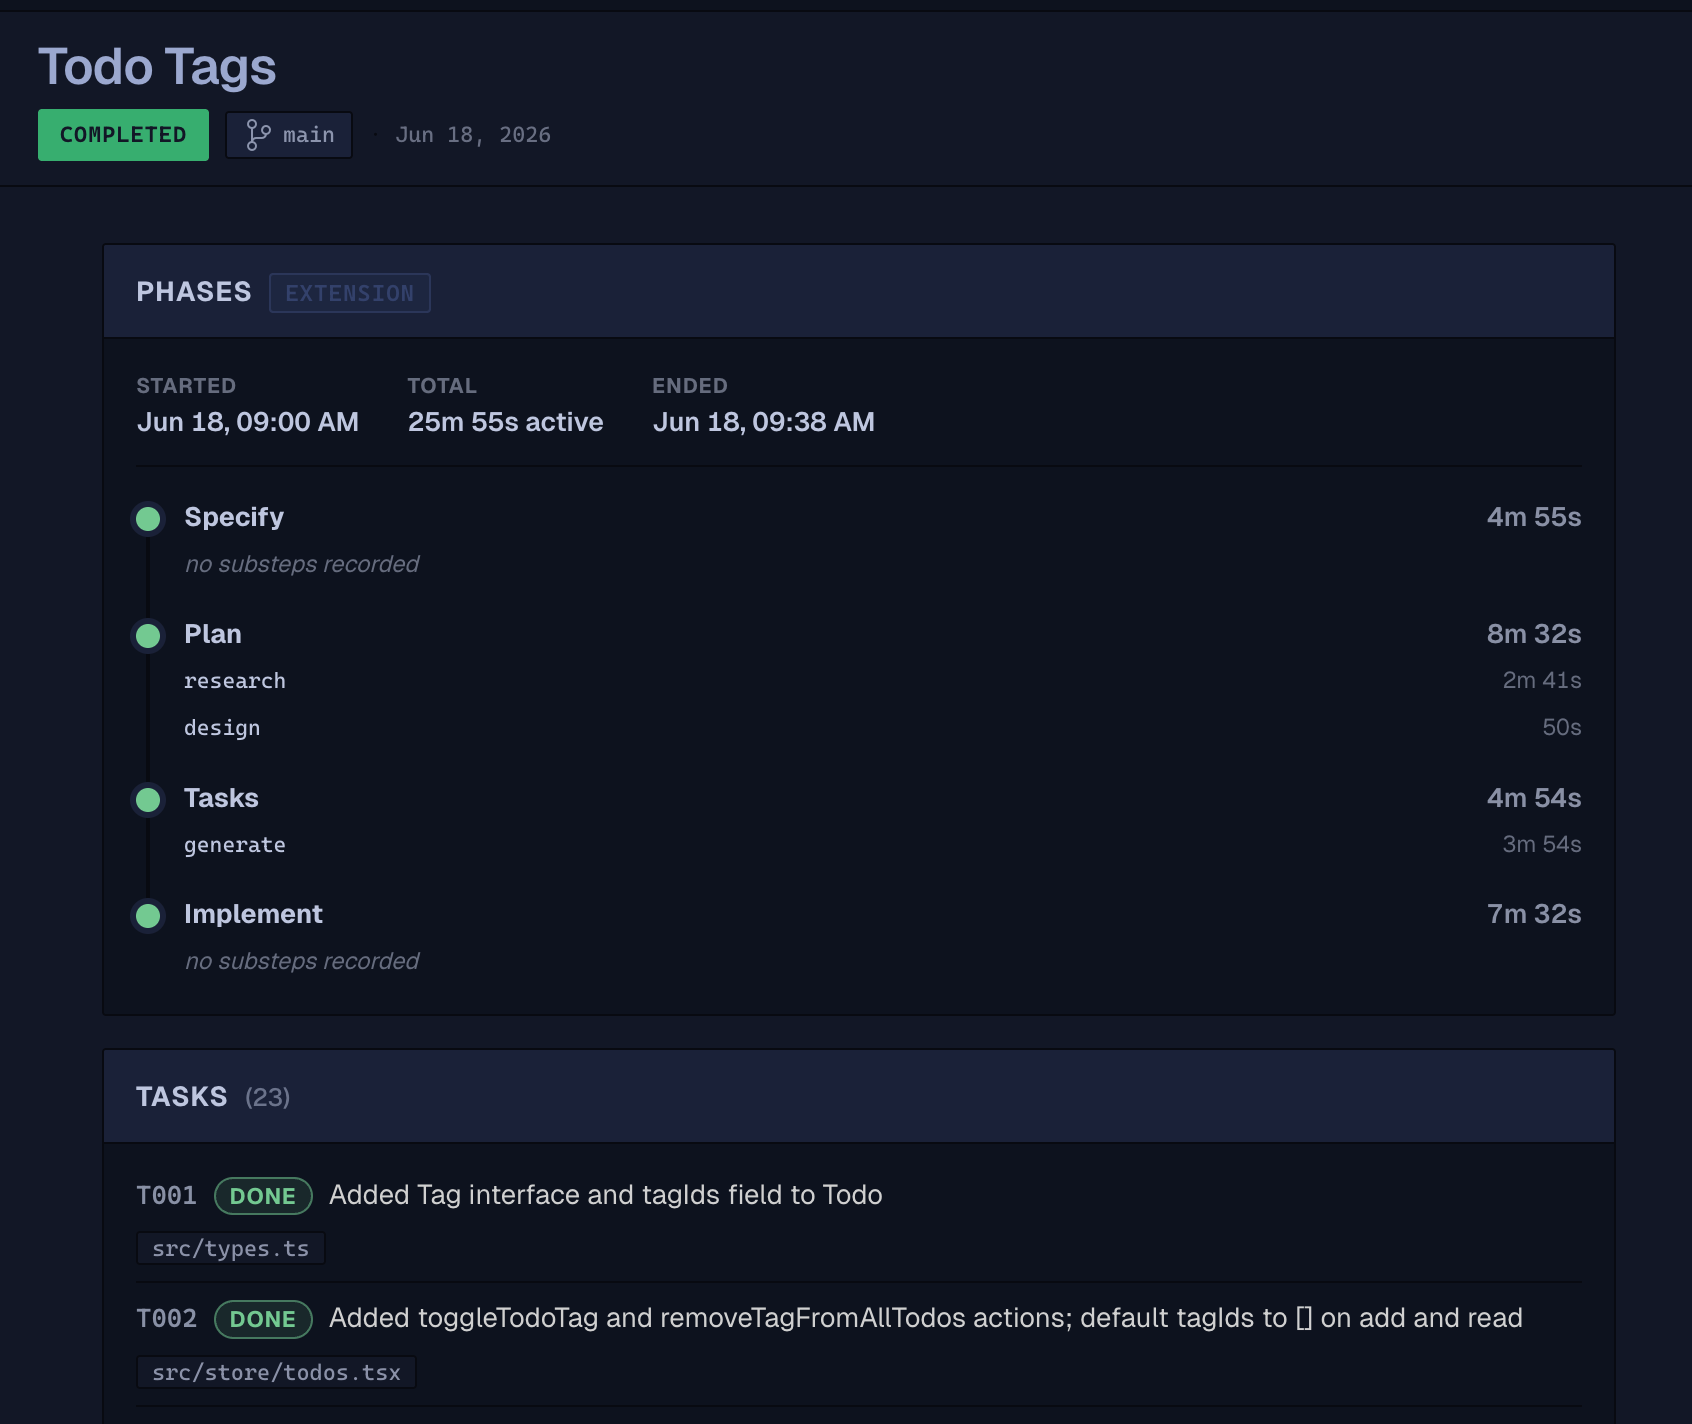
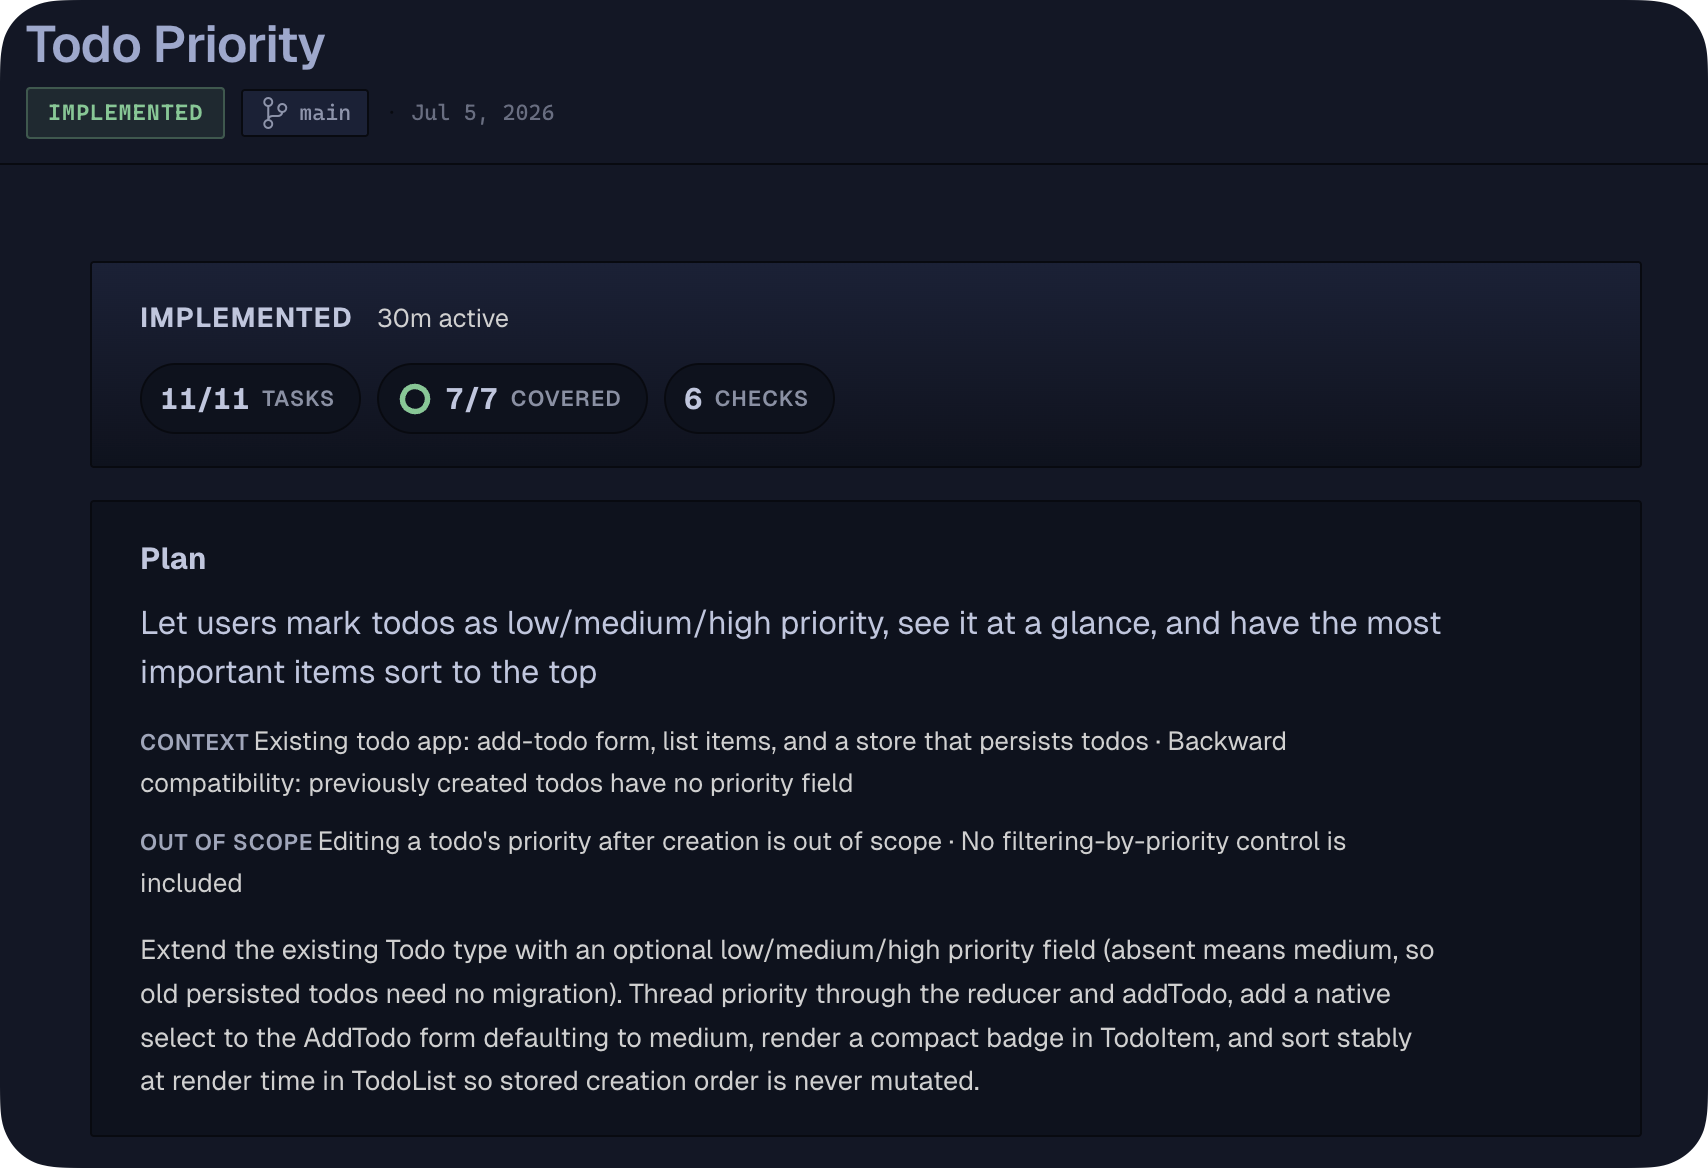
docs: activity panel screenshots — refresh activity.png in place, add decisions/work/proof shots to the changelog

diff --git a/CHANGELOG.md b/CHANGELOG.md
@@ -8,6 +8,10 @@ All notable changes to this project will be documented in this file.
 
 - **Activity panel polish from a design review** (#405): the active tab no longer draws a broken-looking box after a mouse click (keyboard users still get a clear focus ring), each number appears exactly once (one coverage donut in the hero, no counts repeated in section headings), and the Proof/Notes tabs badge only what needs attention — uncovered requirements and open concerns, warning-tinted — instead of summing unrelated things. Checks render as compact pills that pack like tags rather than a grid with holes, section headings read in Title Case so the hierarchy is visible again, coverage rows drop their doubled bullet markers, the tiny metadata labels are more legible on every theme, and the viewer header shows the spec name in Title Case instead of a lowercase slug.
 - **Step timers only show durations that were actually measured** (#392): some timestamps in a spec's history are journaled by the AI after the fact — they put events in the right order but say nothing about how long the work really took. The viewer's derived timing now distinguishes measured spans from journaled ones, so elapsed-time displays can stop presenting bookkeeping as effort. Alongside this, the spec context schema now declares the new reasoning-trail fields the spec-kit extension records (the goal, out-of-scope list, decisions, verifications, and requirement coverage), so the viewer can read them.
+
+  ![The Work tab: phases strip with measured durations and journaled tasks](https://raw.githubusercontent.com/alfredoperez/speckit-companion/main/docs/screenshots/activity-work.png)
+  *What happened, with receipts: the phases strip shows only genuinely measured durations, and every task is journaled as it finished with the files it touched.*
+
 - **A colorful sidebar** (#389): the Steering view now uses full-color icons instead of flat monochrome glyphs — steering docs, the constitution, and section headers each get a recognizable icon, and the provider node shows your AI provider's actual brand logo (Claude, Gemini, GitHub Copilot, Codex, Qwen, OpenCode, Cursor, or Windsurf). The spec list keeps its familiar color-tinted beakers (blue in progress, yellow implemented, green done), and the Active/Completed/Archived group headers are now colorful too. Repeated leaf icons (every script, template, agent, and skill row) and the dimmed file paths on SpecKit Files rows were dropped to cut visual noise. Icons come from the open-source Fluent Emoji and Lobe Icons sets.
 - **Companion commands now open, and the Companion node moved up** (#389): in the Steering view, the entries under Companion → Commands used to do nothing when clicked — each now opens the command's prompt body. The Companion node also moves to the second spot in the Steering view so it's easier to find.
 
@@ -15,7 +19,15 @@ All notable changes to this project will be documented in this file.
 
 - **The living specs a feature touches are now readable inside the viewer** (#394): the Activity panel's Notes tab used to list only the names of the capability specs a feature loaded or folded back into — reading their content meant opening raw files. Each capability now renders inline: its one-line purpose, its requirements as readable rows, and — for completed specs that folded changes back — the change counts (added/modified/removed). Old specs and workspaces where the content can't be found keep the simple name list with a quiet "content unavailable" note. A new committed demo spec (`specs/_03_demo-living`) lets you see the card without configuring living specs.
 - **The Activity panel now shows the reasoning, not just the timeline** (#397): open a spec and the panel leads with a **Goal** card — what the spec is for and what it deliberately isn't — followed by richer **Decisions** (each choice with its why and the rejected alternative; a regression that hid newly-captured decisions entirely is fixed), a **Verified** card (the checks that proved the work, including warnings that were seen and dismissed), and a **Coverage** card answering "is this requirement tested?" per requirement with a covered/total rollup. The Approach card also shows how the pipeline sized the change. Old specs without the new data render exactly as before.
+
+  ![The Decisions tab: each choice with its why and the rejected alternative](https://raw.githubusercontent.com/alfredoperez/speckit-companion/main/docs/screenshots/activity-decisions.png)
+  *The road not taken: every decision with its WHY and the alternative it REJECTED.*
+
 - **The Activity panel became a brief, not a scroll** (#400): it now opens with a hero strip — status, sizing, honestly-measured active time, and stat chips (tasks, coverage with a donut, checks, concerns) that jump to their detail — followed by an always-visible plan block showing the spec's goal, the context it worked from, its out-of-scope fence, and the approach. Everything else moved into four keyboard-navigable tabs (Decisions, Work, Proof, Notes) with count badges; when requirements are uncovered or concerns are open, Proof opens first. Verifications render as green/amber pills, requirement chips are tinted by covered state, decisions are numbered, and the phase timeline gained duration bars for genuinely measured spans. Older specs render gracefully with only what they have.
+
+  ![The Activity panel brief: hero stats and the Plan section](https://raw.githubusercontent.com/alfredoperez/speckit-companion/main/docs/screenshots/activity.png)
+  *The brief: status, honest active time, and stat chips up top; the Plan states the intent, the context the run worked from, and what was out of scope.*
+
 - **The Spec Explorer can now act, not just list** (#393): right-click a capability in the Spec Explorer to run a **drift check** or a **requirement-coverage check** — each is sent to your AI assistant scoped to that capability, the same way every other Companion command dispatches. The view's title bar gains an **Adopt Code Area** action (the brownfield wizard, handy from the empty state) and a **Refresh** button. Capability rows also show their health at a glance: a `3/5 covered` count when a coverage file exists, and a `● drift` marker (with a warning-colored icon) when code has changed since the living spec was last committed. Health is computed quietly by the extension itself and simply stays absent when it can't be determined — the tree never errors or stalls.
 - **Support the project from inside the editor** (#388): if SpecKit Companion saves you time, there's now an easy way to chip in. A "Sponsor" button appears on the Marketplace listing and the extension details view, the Specs sidebar welcome screen has a "Support this project" link, and there's a "Sponsor SpecKit Companion" command in the Command Palette. All of them open the project's GitHub Sponsors page. Nothing changes if you'd rather not — it's entirely optional.
 - **Companion templates in the Steering view** (#389): the Companion node now has a **Templates** group listing the prompt templates the Companion preset ships (the per-step command bodies it layers over stock SpecKit), the same way SpecKit Files lists its templates. Click one to open it. It appears only when the installed Companion extension actually carries templates.
@@ -24,6 +36,10 @@ All notable changes to this project will be documented in this file.
 ### Fixed
 
 - **Stock-workflow specs no longer get stuck, and their Activity panel fills up** (#408): when you dispatch a standard SpecKit command from the GUI without the companion spec-kit extension installed, the instructions the extension sends along used to reference a helper that didn't exist in your workspace — so progress recording silently failed and specs could freeze at "specifying" forever. The helper now ships inside the editor extension itself, so it always exists. And stock runs now record the same reasoning trail the Companion pipeline does — the goal and out-of-scope fences, working context, decisions, checks, and per-requirement coverage — so the Activity panel is a real brief on stock workflows too, not just a bare timeline. Verified end-to-end by a new committed sandbox eval that replays the exact GUI-dispatched instructions against a real model in a companion-free workspace.
+
+  ![The Proof tab: verified checks with their commands and a requirement coverage map](https://raw.githubusercontent.com/alfredoperez/speckit-companion/main/docs/screenshots/activity-proof.png)
+  *Proof, not self-report — captured on a plain stock spec-kit run: six checks with the exact command each ran, and every requirement mapped to the tasks and tests that satisfy it.*
+
 - **The sidebar Resume button no longer clicks into the void without the spec-kit extension** (#407): with the SpecKit Companion Workflow enabled but the companion spec-kit extension not installed, Resume used to stay visible and a click silently sent a command your AI CLI couldn't resolve — nothing happened, no explanation. The button now hides when the extension is missing, and if the command runs anyway you get the standard warning with an **Install spec-kit Extension** action instead of a dead dispatch.
 - **The "Install spec-kit extension" banner no longer hides behind the beta setting** (#369): the prompt that offers to install the companion spec-kit extension used to appear only after you'd turned on the SpecKit Companion Workflow beta — which meant the people most likely to want the extension never saw the nudge to get it. The banner now shows on its own merits: whenever the extension is missing and you haven't dismissed it or turned its setting off, no matter how the workflow toggle is set. Installing the extension, dismissing the banner, and turning off its `speckit.companion.installPrompt` setting all still hide it exactly as before.
 

diff --git a/README.md b/README.md
@@ -101,7 +101,7 @@ Toggle **Activity** in the viewer's nav bar to swap the markdown pane for a **br
 Old specs without the newer capture degrade gracefully — the hero shows what exists and only populated tabs render. Visibility is gated by `speckit.viewer.activityPanel` — `"off"`, `"beta"` (default; toggle shows a *beta* pill), or `"on"`.
 
 ![Activity Panel](https://raw.githubusercontent.com/alfredoperez/speckit-companion/main/docs/screenshots/activity.png)
-*Activity panel. The Phases timeline plus Approach, Tasks, and Review-comments cards — one overview of everything the spec's context file tracks.*
+*Activity panel. The hero answers "how did the run stand" at a glance — status, honest active time, tasks, coverage, checks — and the Plan states the intent, the context the run worked from, and what was explicitly out of scope.*
 
 ### Custom Workflows & Commands
 